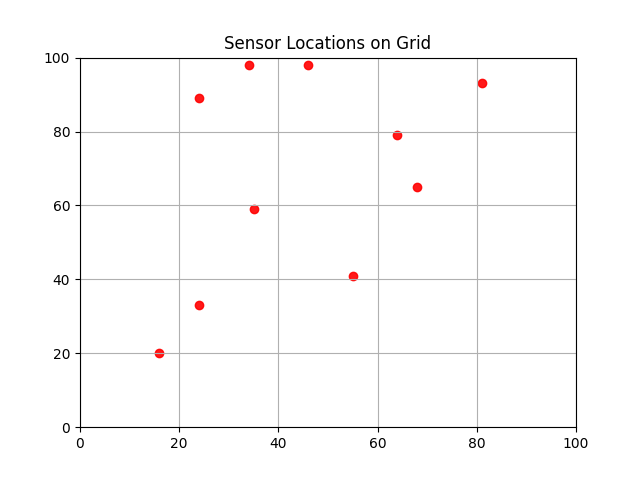
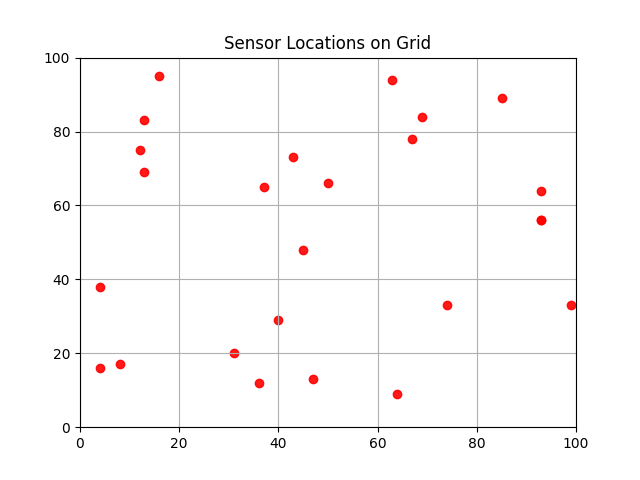
does this work?

diff --git a/functions/clustering.py b/functions/clustering.py
@@ -61,6 +61,7 @@ def generate_model(grid:Grid, sensor_set:set, distance_threshold:float) -> dict:
         ] for _ in grid.get_height_as_range()
     ]
 
+
     return model, covered_sensors, gateway_locations
 
 
@@ -71,9 +72,13 @@ def develop_model(model:mip.model.Model, grid:Grid, sensor_set:set, covered_sens
         )
     )
 
-    model += mip.model.xsum(
+    """model += mip.model.xsum(
         covered_sensors[row][col] for col in grid.get_width_as_range() for row in grid.get_height_as_range()
-    ) == sensor_set
+    ) == sensor_set"""
+
+    model += mip.model.xsum(
+        gateway_locations[row][col] for col in grid.get_width_as_range() for row in grid.get_height_as_range()
+    ) >= 5
 
     return model
 
@@ -81,4 +86,9 @@ def develop_model(model:mip.model.Model, grid:Grid, sensor_set:set, covered_sens
 def optimize_model(model:mip.model.Model, grid:Grid, sensor_set:set, covered_sensors:list, gateway_locations:list) -> mip.model.Model:
     model.optimize()
     if model.num_solutions:
-        print("FOUND")
+        for y in grid.get_height_as_range():
+            for x in grid.get_width_as_range():
+                if gateway_locations[y][x].x >= 0.99:
+                    print('Gateway Location: {}, {}'.format(x, y))
+
+        

diff --git a/main.py b/main.py
@@ -7,9 +7,9 @@ from functions import preprocess as pproc
 from functions import clustering
 
 parser = argparse.ArgumentParser(description='ILP Sensor Clustering - Clustering of sensors using Integer Linear Programming concept')
-parser.add_argument('--size', required=False, default=1000, type=int)
-parser.add_argument('--sensor_count', required=False, default=75, type=int)
-parser.add_argument('--distance_threshold', required=False, default=100.0, type=float)
+parser.add_argument('--size', required=False, default=100, type=int)
+parser.add_argument('--sensor_count', required=False, default=25, type=int)
+parser.add_argument('--distance_threshold', required=False, default=150.0, type=float)
 
 args = vars(parser.parse_args())
 GRID_SIZE = args['size']
